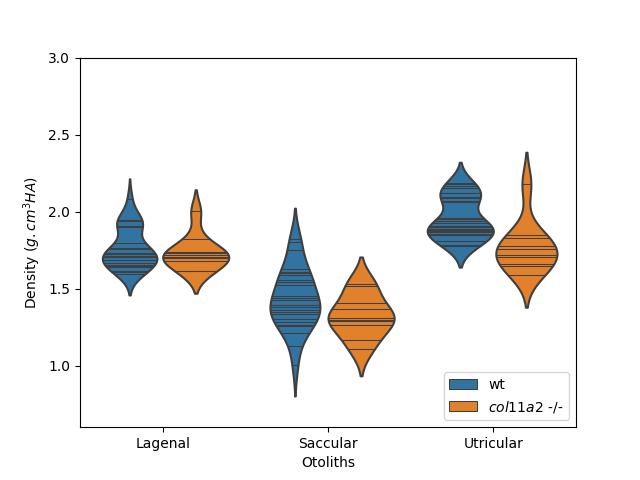
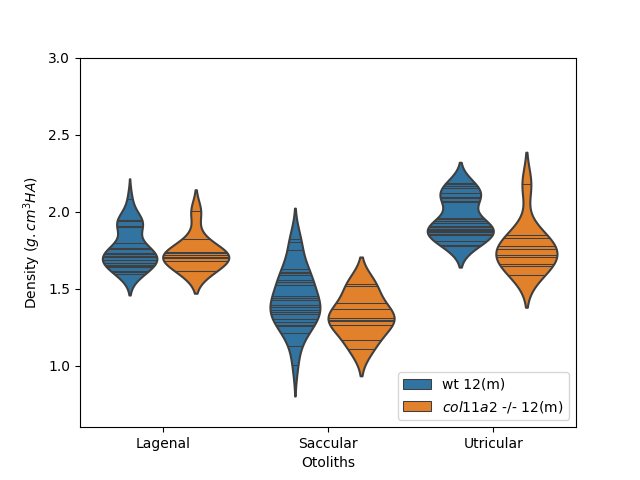
col11 six months and phantom

Changed region(s): [[0.625, 0.7812, 0.875, 0.875]]

diff --git a/col11.py b/col11.py
@@ -61,9 +61,9 @@ if __name__ == "__main__":
 	for n in densities.index.tolist():
 		n = int(n)
 		if n in oneyrold_wildtypes:
-			genotype.append('wt')
+			genotype.append('wt 12(m)')
 		elif n in col11homs:
-			genotype.append('$col11a2$ -/-')
+			genotype.append('$col11a2$ -/- 12(m)')
 		else:
 			genotype.append(None)
 	densities['genotype'] = genotype
@@ -94,6 +94,33 @@ if __name__ == "__main__":
 	plt.legend(loc='lower right')
 	plt.savefig('output/yushipaper/densities3.png')
 
+	oneyear = densities
+	sixmonth = pd.read_csv('output/yushipaper/six_month.csv', index_col=0)
+
+
+	oneyear['age (months)'] = 12
+	sixmonth['age (months)'] = 6
+
+	print(oneyear)
+	print(sixmonth)
+
+	oneyear.index = list(range(len(sixmonth), len(sixmonth)+len(oneyear)))
+
+	# import pdb; pdb.set_trace()
+
+	merged = pd.concat([sixmonth, oneyear])
+
+	print(merged)
+
+	plt.clf()
+	fig = sns.violinplot(x='Otoliths', y='Density ($g.cm^{3}HA$)', hue='genotype', data=merged, inner='stick', legend=False, hue_order=['wt 6(m)', '$col11a2$ -/- 6(m)', 'wt 12(m)', '$col11a2$ -/- 12(m)'])
+	plt.ylim((0.4,3.0))
+	plt.legend(loc='lower left')
+	plt.savefig('output/yushipaper/all_densities.png')
+
+	exit()
+
+
 	grouped = densities.groupby(['genotype', 'Otoliths'])
 	means = grouped.mean()
 	std = grouped.std()
@@ -105,8 +132,8 @@ if __name__ == "__main__":
 	normality = {}
 	significance = {}
 	for oto in ['Lagenal', 'Saccular', 'Utricular']:
-		wt = densities.loc[(densities['genotype'] == 'wt') & (densities['Otoliths'] == oto), 'Density ($g.cm^{3}HA$)'].tolist()
-		mut = densities.loc[(densities['genotype'] == '$col11a2$ -/-') & (densities['Otoliths'] == oto), 'Density ($g.cm^{3}HA$)'].tolist()
+		wt = densities.loc[(densities['genotype'] == 'wt 12(m)') & (densities['Otoliths'] == oto), 'Density ($g.cm^{3}HA$)'].tolist()
+		mut = densities.loc[(densities['genotype'] == '$col11a2$ -/- 12(m)') & (densities['Otoliths'] == oto), 'Density ($g.cm^{3}HA$)'].tolist()
 		wt = np.array(wt)
 		mut = np.array(mut)
 		

diff --git a/col11_six.py b/col11_six.py
@@ -52,15 +52,17 @@ if __name__ == "__main__":
 	for n in densities.index.tolist():
 		n = int(n)
 		if n in sixmonth_wildtypes:
-			genotype.append('wt')
+			genotype.append('wt 6(m)')
 		elif str(n) in dens_col11.keys():
-			genotype.append('$col11a2$ -/-')
+			genotype.append('$col11a2$ -/- 6(m)')
 		else:
 			genotype.append(None)
 	densities['genotype'] = genotype
 
 	densities = densities.dropna(axis=0)
 	densities = densities.melt(['genotype'], var_name='Otoliths', value_name='Density ($g.cm^{3}HA$)')
+
+	densities.to_csv('output/yushipaper/six_month.csv')
 
 	
 	print(len(sixmonth_wildtypes), len(data_col11))
@@ -81,8 +83,8 @@ if __name__ == "__main__":
 	normality = {}
 	significance = {}
 	for oto in ['Lagenal', 'Saccular', 'Utricular']:
-		wt = densities.loc[(densities['genotype'] == 'wt') & (densities['Otoliths'] == oto), 'Density ($g.cm^{3}HA$)'].tolist()
-		mut = densities.loc[(densities['genotype'] == '$col11a2$ -/-') & (densities['Otoliths'] == oto), 'Density ($g.cm^{3}HA$)'].tolist()
+		wt = densities.loc[(densities['genotype'] == 'wt 6(m)') & (densities['Otoliths'] == oto), 'Density ($g.cm^{3}HA$)'].tolist()
+		mut = densities.loc[(densities['genotype'] == '$col11a2$ -/- 6(m)') & (densities['Otoliths'] == oto), 'Density ($g.cm^{3}HA$)'].tolist()
 		wt = np.array(wt)
 		mut = np.array(mut)
 		
